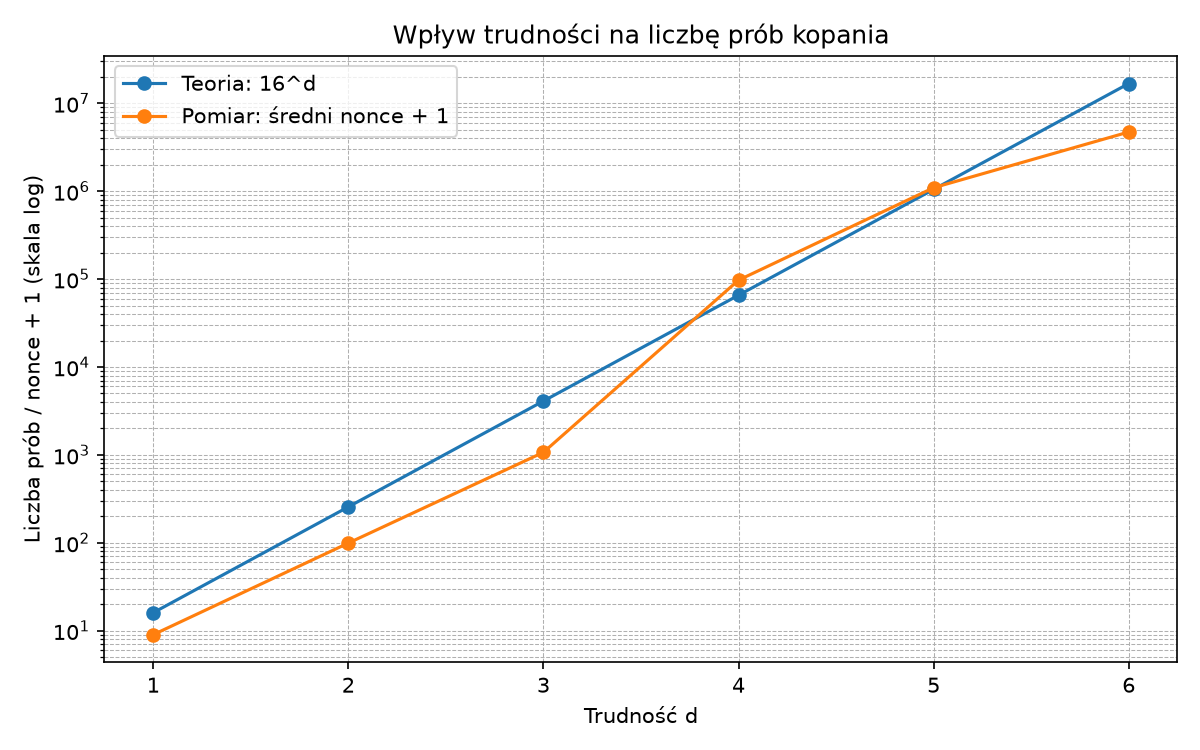
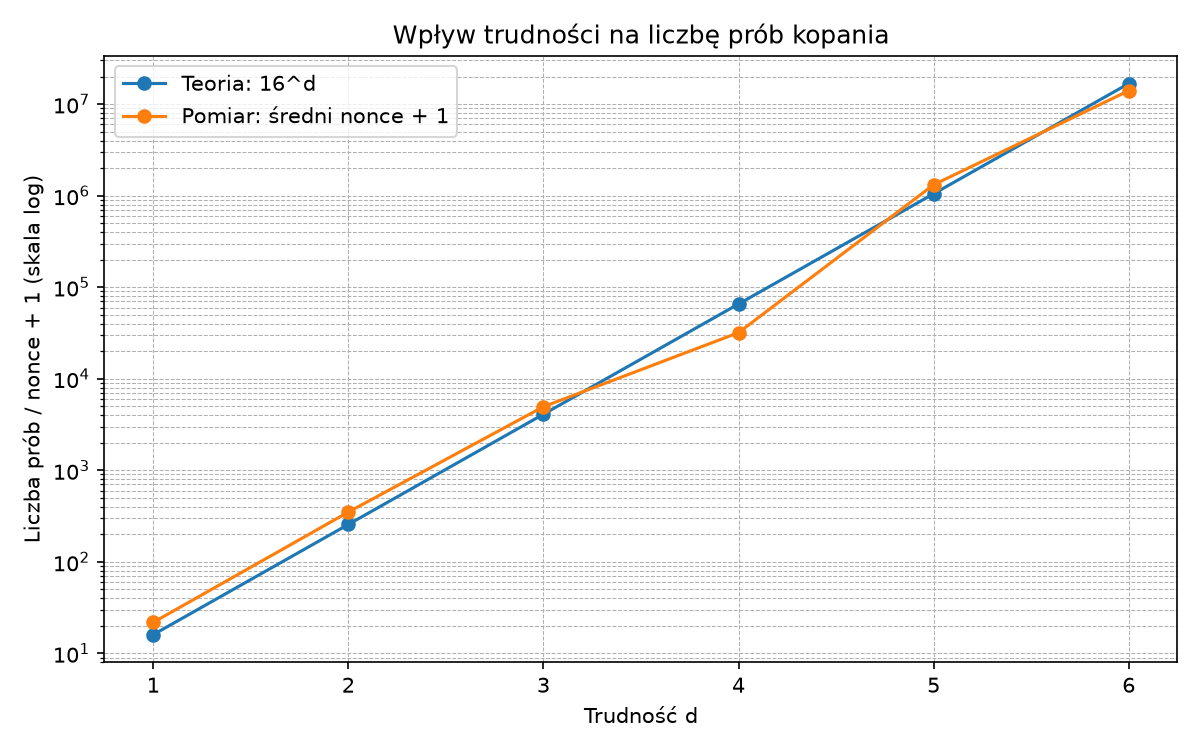
lab2

Changed region(s): [[0.0308, 0.092, 0.9867, 0.8893], [0.0308, 0.1227, 0.0925, 0.1533]]

diff --git a/laby/lab2/lab2.py b/laby/lab2/lab2.py
@@ -183,21 +183,15 @@ def remine_from_block(blockchain, start_block_index=2):
 
 
 def run_integrity_attack(total_blocks=5):
-    print("2.3. Atak na integralność łańcucha")
-    print(
-        f"Tworzę łańcuch złożony z {total_blocks} bloków dla trudności 4, "
-        "zmieniam transakcję w bloku nr 2 i sprawdzam valid_chain()."
-    )
-
     blockchain = mine_chain(difficulty=4, total_blocks=total_blocks)
     print(
-        f"Łańcuch poprawny przed modyfikacją: {blockchain.valid_chain(blockchain.chain)}"
+        f"valid_chain() przed modyfikacją: {blockchain.valid_chain(blockchain.chain)}"
     )
 
     old_amount, new_amount = change_transaction_amount(blockchain, block_index=2)
-    print(f"Zmieniono kwotę transakcji w bloku nr 2: {old_amount} -> {new_amount}")
+    print(f"Zmiana kwoty transakcji w bloku nr 2: {old_amount} -> {new_amount}")
     print(
-        f"Łańcuch poprawny po modyfikacji: {blockchain.valid_chain(blockchain.chain)}"
+        f"valid_chain po modyfikacji: {blockchain.valid_chain(blockchain.chain)}"
     )
 
     print("\nPomiar czasu ataku — ponowne kopanie od bloku nr 2:")
@@ -222,8 +216,8 @@ def run_integrity_attack(total_blocks=5):
 
 
 def main():
-    output_dir = Path(__file__).resolve().parent
-    run_difficulty(output_dir=output_dir)
+    # output_dir = Path(__file__).resolve().parent
+    # run_difficulty(output_dir=output_dir)
     run_integrity_attack()
 
 

diff --git a/blockchain.py b/blockchain.py
@@ -13,7 +13,6 @@ class Blockchain:
 
     @staticmethod
     def hash(block):
-        # sort_keys=True gwarantuje deterministyczną kolejność pól
         block_string = json.dumps(block, sort_keys=True).encode()
         return hashlib.sha256(block_string).hexdigest()
 
@@ -124,10 +123,6 @@ class Blockchain:
 
         return True, None
 
-    def repair_as_attacker(self, start):
-        for i in range(start + 1, len(self.chain)):
-            self.chain[i]["previous_hash"] = self.hash(self.chain[i - 1])
-
 
 def print_info(block):
     print(
@@ -156,3 +151,9 @@ if __name__ == "__main__":
     bc.new_transaction("Jakub", "Michal", 0.6)
     block3 = bc.mine(miner_address="Michal")
     print_info(block3)
+    print("Saldo Michal:", bc.get_balance("Michal"))
+
+    bc.new_transaction("Jakub", "Karol", 10)
+    bc.new_transaction("Jakub", "", 10)
+    bc.new_transaction("Jakub", "Karol", -0.1)
+    bc.new_transaction("Jakub", "Jakub", 0.1)
